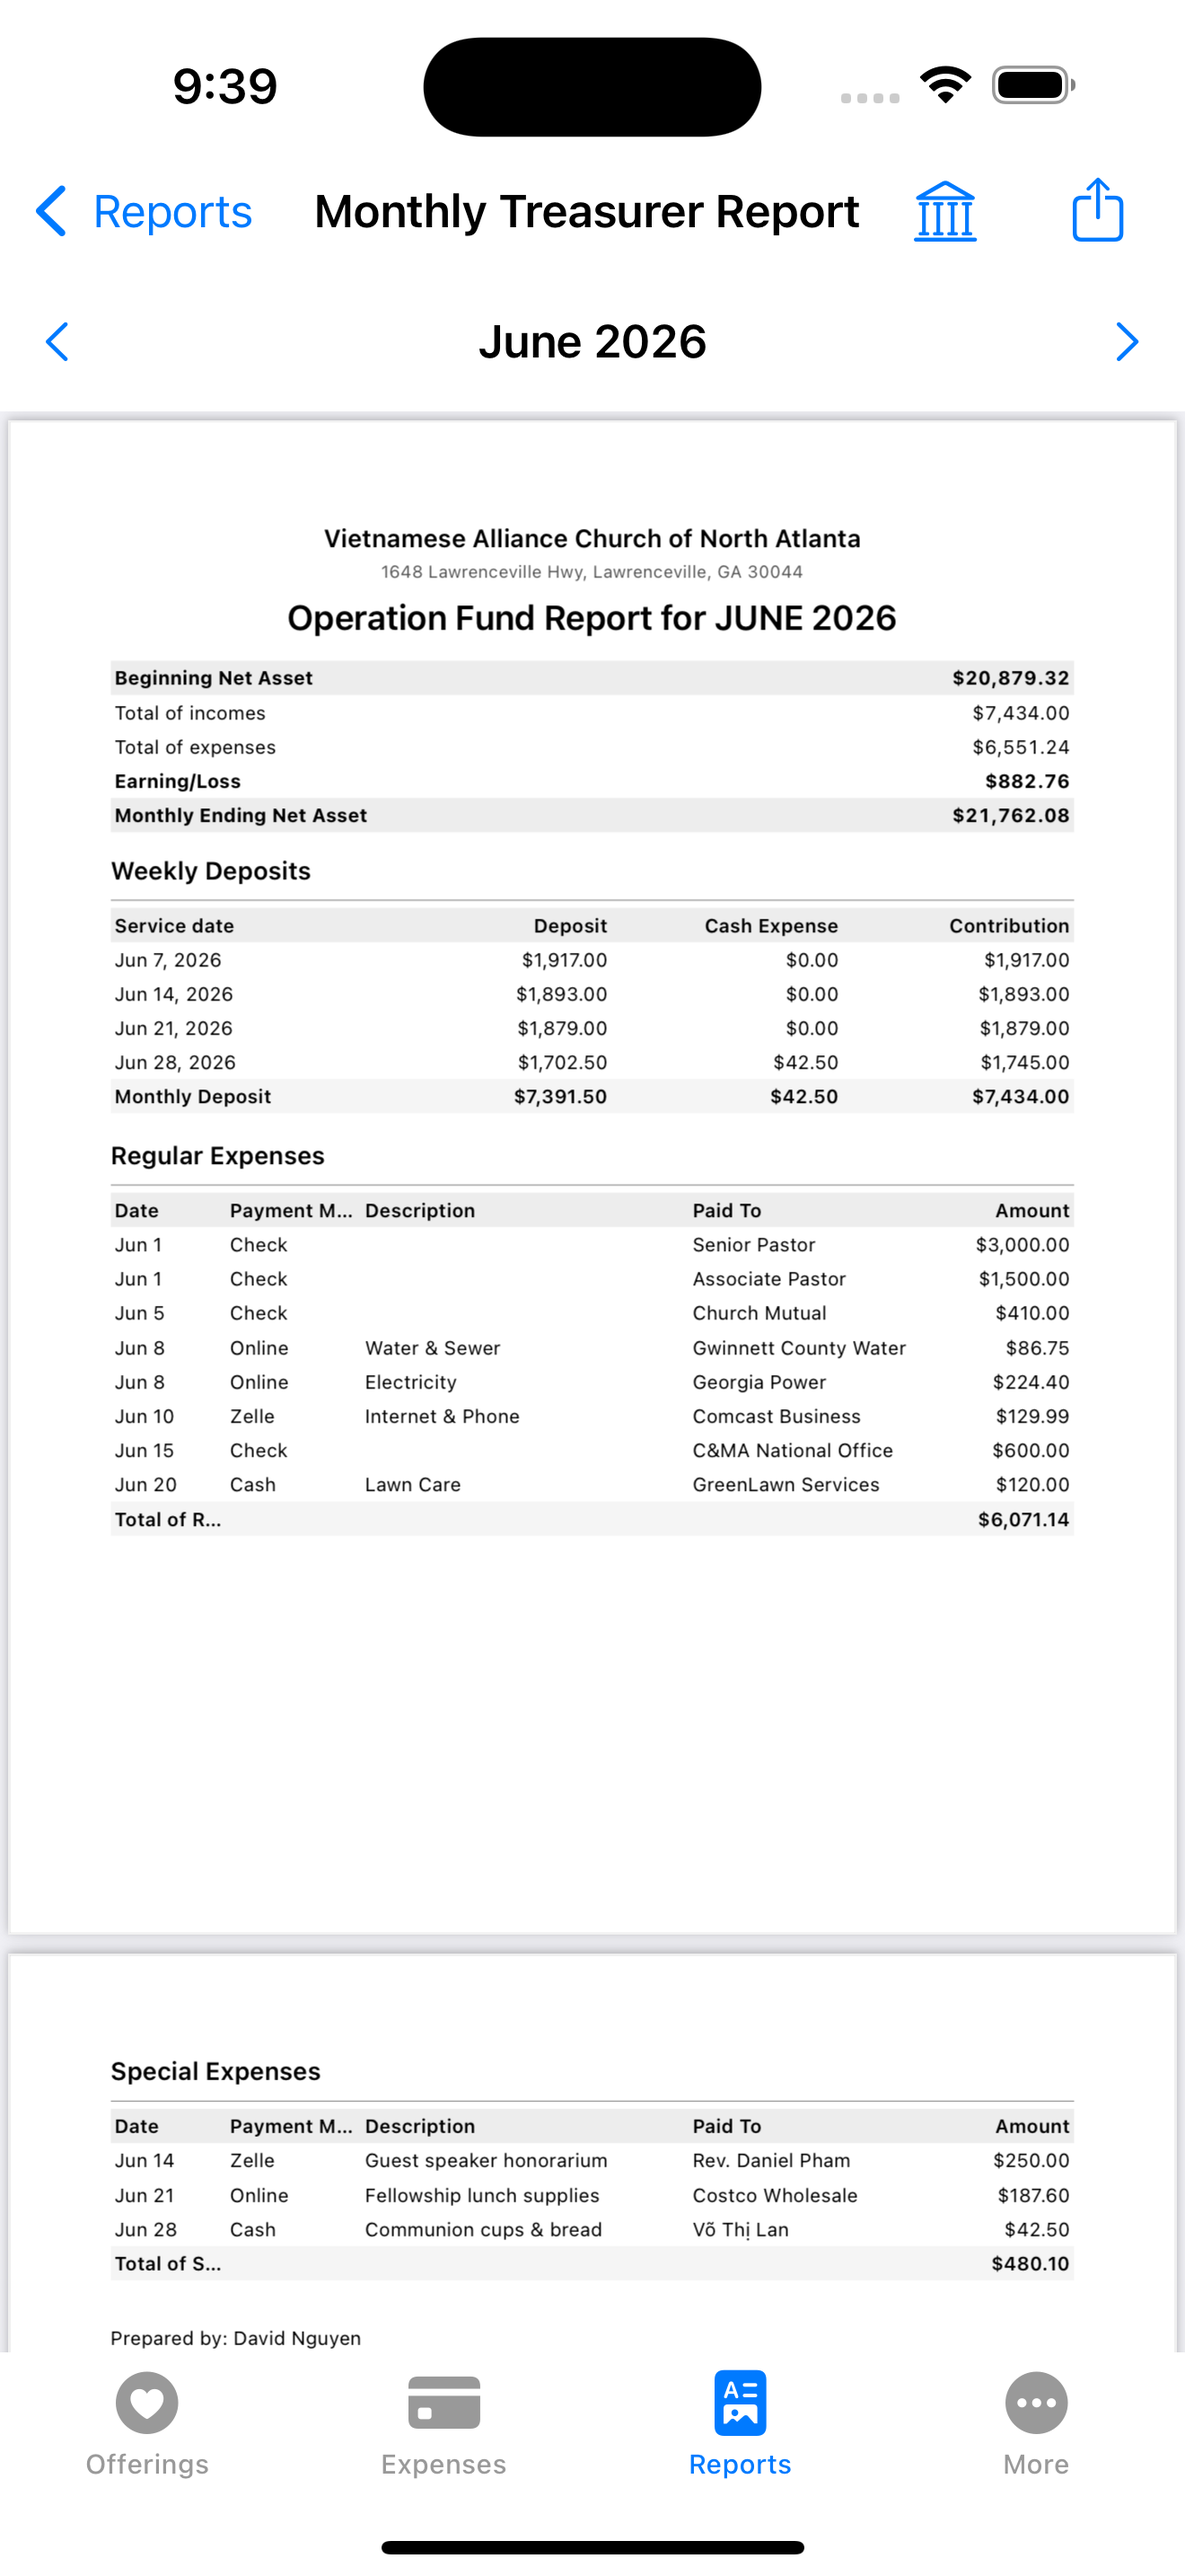
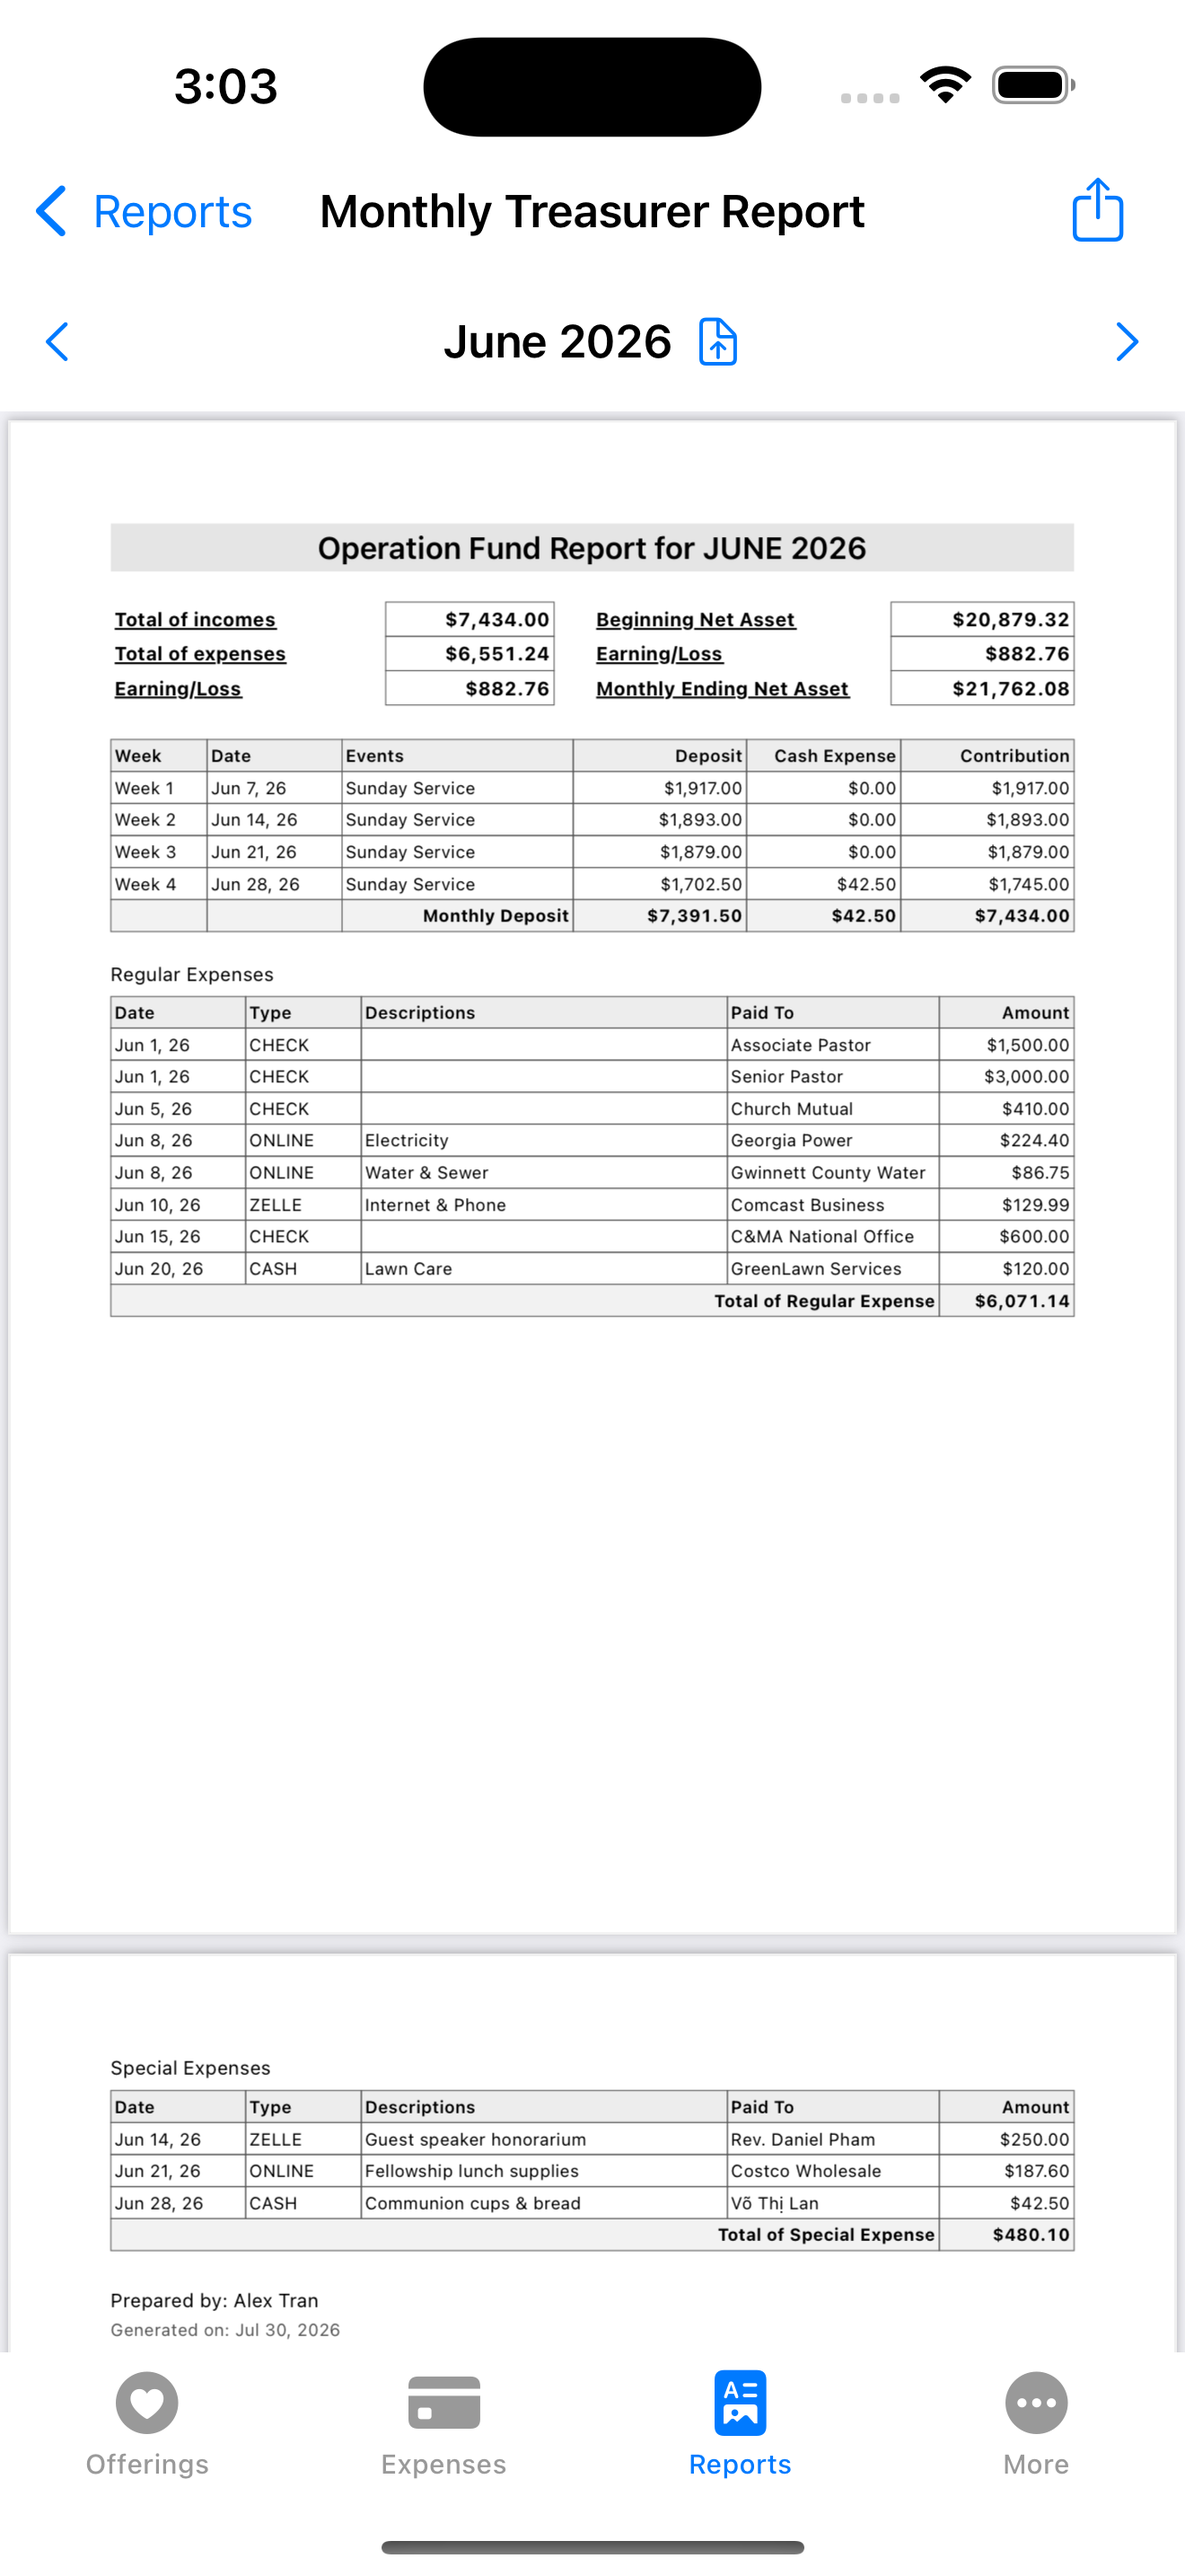
privacy: replace real church name/address in demo seed data and docs
MockDataSeeder used the real church's actual name and address as its
DEBUG-only demo data, which surfaced in a committed README screenshot.
Swapped to a fictional church/treasurer everywhere it appeared and
regenerated the leaked screenshot.

diff --git a/ChurchTreasury/Services/MockDataSeeder.swift b/ChurchTreasury/Services/MockDataSeeder.swift
@@ -48,9 +48,11 @@ enum MockDataSeeder {
 
     private static func seedSettings() {
         let d = UserDefaults.standard
-        d.set("Vietnamese Alliance Church of North Atlanta", forKey: "churchName")
-        d.set("1648 Lawrenceville Hwy, Lawrenceville, GA 30044", forKey: "churchAddress")
-        d.set("David Nguyen", forKey: "treasurerName")
+        // Fictional — deliberately not the real church this app was built
+        // for, so demo builds/screenshots never surface real identifying info.
+        d.set("Grace Fellowship Church", forKey: "churchName")
+        d.set("100 Fellowship Way, Alpharetta, GA 30022", forKey: "churchAddress")
+        d.set("Alex Tran", forKey: "treasurerName")
         d.set(1_850_000, forKey: "netAssetAnchorCents")   // $18,500.00
         d.set(date(2026, 4, 1).timeIntervalSince1970, forKey: "netAssetAnchorMonth")
     }

diff --git a/Promo/README.md b/Promo/README.md
@@ -67,5 +67,5 @@ To re-render after changing captions/screens: rerun `compose.py` then `assemble.
 - **Music**: currently a soft synthesized pad (royalty-free because it's generated). Drop in your own
   licensed track by muxing it over `video.mp4` if you prefer.
 - **Length**: ~2 min. Trim by removing slides in `assemble.py` (the `durs` list) or shortening `9.5`.
-- The demo shows a real configured church ("Vietnamese Alliance Church of North Atlanta") to look
-  authentic; the app itself is generic and every church sets its own name/logo in **More → Church Info**.
+- The demo shows a fictional configured church ("Grace Fellowship Church") to look authentic; the
+  app itself is generic and every church sets its own name/logo in **More → Church Info**.
